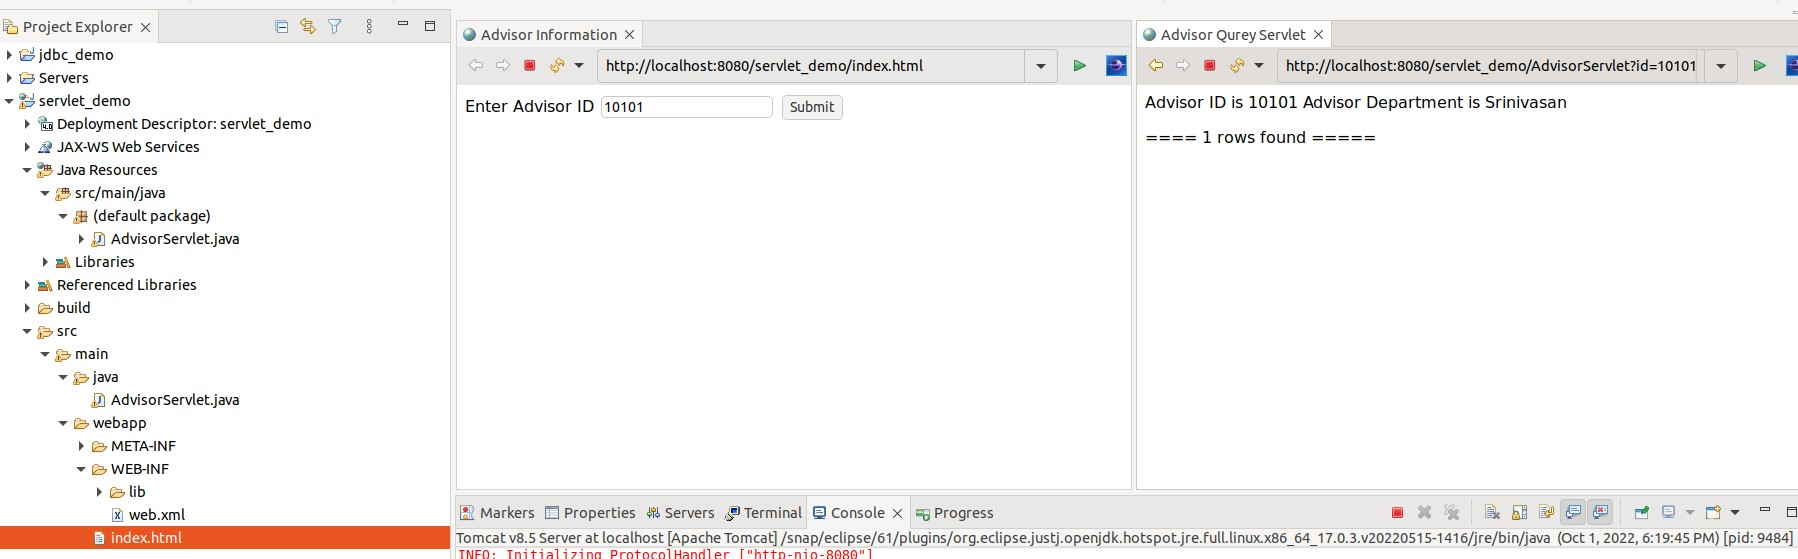
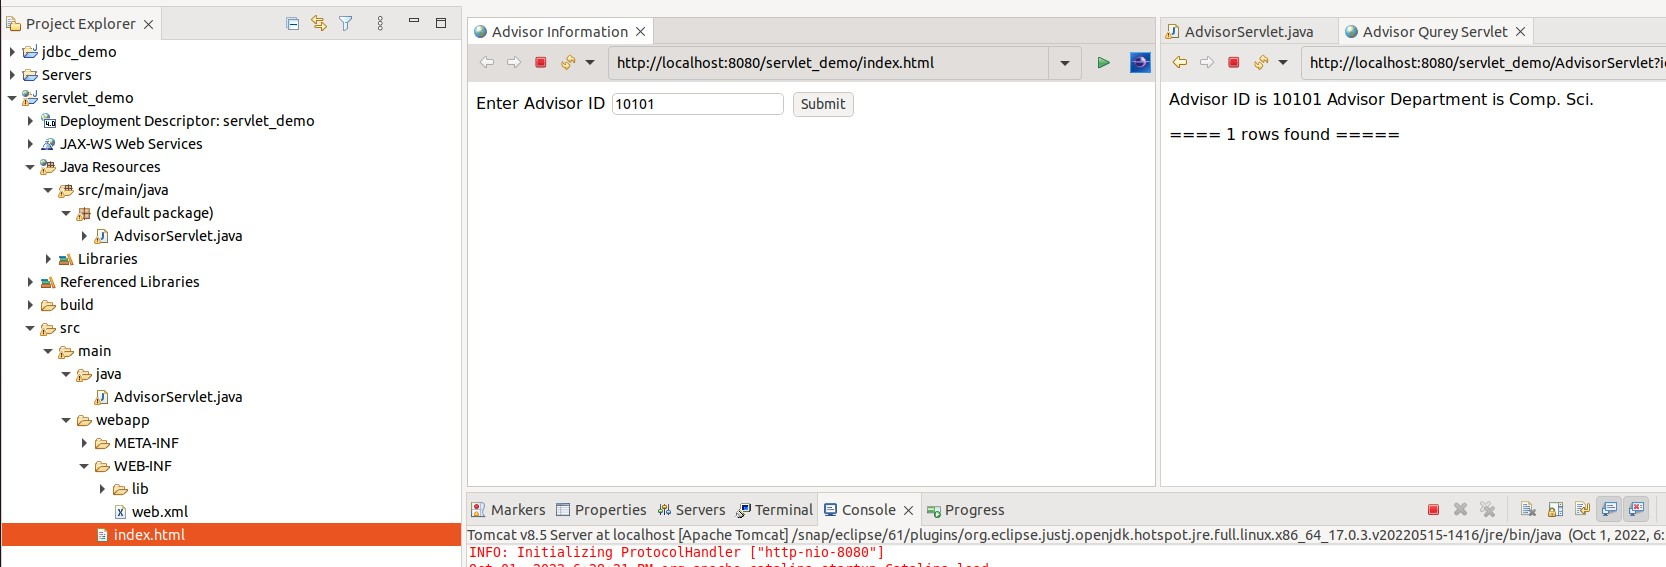
small Changes

Changed region(s): [[0.0, 0.0, 1.0, 1.0]]

diff --git a/DBIS-Lab/Assignment_5/AdvisorServlet.java b/DBIS-Lab/Assignment_5/AdvisorServlet.java
@@ -39,7 +39,7 @@ public class AdvisorServlet extends HttpServlet{
 			ResultSet rset = ps.executeQuery();
 			int count=0;
 			while(rset.next()) {
-				advisor_dept=rset.getString("name");//getting student name and storing in a variable
+				advisor_dept=rset.getString("dept_name");//getting student name and storing in a variable
 				++count;
 			}
 			out.println("Advisor ID is " +advisor_id+" Advisor Department is "+advisor_dept);//printing student id and name
